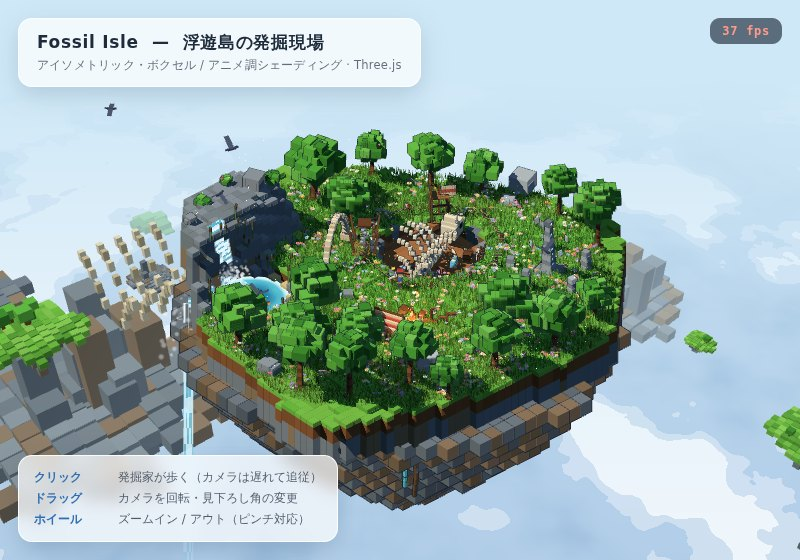
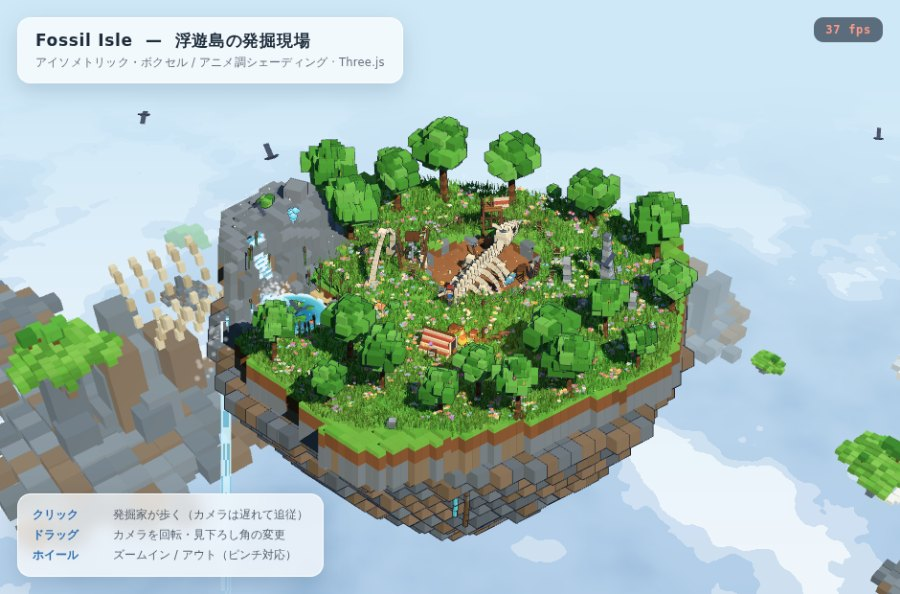
Rebuild the fossil from tapered rods and make the digger look younger
Ribs and long bones were axis-aligned box stacks: chunky, straight and
splayed wide apart, which read as a picket fence rather than a skeleton.

- Add a `rod` helper that rotates a box to lie along a->b inside the
  part's frame, so chaining segments with a shrinking width gives smooth
  streamlined bones. Spine, neural spines, ribs, limbs, tail, teeth,
  jaw and the landmark bone arch are all built from it now.
- Flip the anatomy: the spine rides along the top of the mound and the
  ribs bow outward then curve back inward as they sink into the clay,
  closing the cage under the belly instead of opening upward.
- Reshape the skull: braincase, brow ridge, tapering snout, recessed
  sockets, cheek arches, a hinged lower jaw and horns.
- Face: bigger anime eyes (sclera, iris, pupil, two highlights, lash
  line) built around their own centre so blinks squash in place, plus
  brows, a narrower jaw with a chin, hair tufts escaping the cap, a
  small grin and a touch of colour on the cheeks.
- Move the sun about 55 degrees off the camera azimuth so the digger's
  face is lit while facing the camera and cast shadows stay visible.

Claude-Session: https://claude.ai/code/session_0125P2mU8XHrXdhLTmH6Xdx1

diff --git a/src/world/props.js b/src/world/props.js
@@ -23,6 +23,40 @@ function at(b, x, y, z, yaw = 0, scale = 1, pitch = 0, roll = 0) {
   return b.setTransform(_m);
 }
 
+/** A standalone copy of a local frame, so nested parts can compose onto it. */
+function frame(x, y, z, yaw = 0, scale = 1) {
+  return new THREE.Matrix4().compose(
+    new THREE.Vector3(x, y, z),
+    new THREE.Quaternion().setFromEuler(new THREE.Euler(0, yaw, 0)),
+    new THREE.Vector3(scale, scale, scale),
+  );
+}
+
+const _rm = new THREE.Matrix4();
+const _rq = new THREE.Quaternion();
+const _rd = new THREE.Vector3();
+const _rc = new THREE.Vector3();
+const _r1 = new THREE.Vector3(1, 1, 1);
+const _UP = new THREE.Vector3(0, 1, 0);
+
+/**
+ * A bone segment: a box rotated to lie along a->b inside `base`.
+ * Chaining these with a shrinking width gives smooth tapered rods instead of
+ * a staircase of axis-aligned cubes.
+ */
+function rod(b, base, a, c, w, color, opts = {}, pad = 0.04) {
+  _rd.set(c[0] - a[0], c[1] - a[1], c[2] - a[2]);
+  const len = _rd.length();
+  if (len < 1e-5) return;
+  _rd.divideScalar(len);
+  _rq.setFromUnitVectors(_UP, _rd);
+  _rc.set((a[0] + c[0]) / 2, (a[1] + c[1]) / 2, (a[2] + c[2]) / 2);
+  _rm.compose(_rc, _rq, _r1);
+  _rm.premultiply(base);
+  b.setTransform(_rm);
+  b.box(0, 0, 0, w, len + pad, w, color, opts);
+}
+
 const COL = {
   bone: 0xf3ead2, boneDark: 0xded1b0, boneWarm: 0xfdf7e4,
   wood: 0x8a5a34, woodDark: 0x6d452a, plank: 0xa9743f,
@@ -265,75 +299,110 @@ function signpost(b, x, z, yaw) {
 
 /** The star of the dig: a huge half-buried fossil beast. */
 function fossilBeast(b, rnd, cx, cz, yaw) {
-  const y = CFG.pit.floor + 0.95;
-  at(b, cx, y, cz, yaw, 1.4);
-  const bone = (x, yy, z, w, h, d, tint = 1) =>
-    b.box(x, yy, z, w, h, d, rnd() < 0.25 ? COL.boneWarm : COL.bone,
-      { tint: tint * (0.95 + rnd() * 0.1) });
+  const base = frame(cx, CFG.pit.floor + 0.95, cz, yaw, 1.4);
+  const col = () => (rnd() < 0.22 ? COL.boneWarm : COL.bone);
+  const jit = (t = 1) => ({ tint: t * (0.95 + rnd() * 0.1) });
+  const blk = (x, y, z, w, h, d, c = col(), t = 1) => {
+    b.setTransform(base);
+    b.box(x, y, z, w, h, d, c, jit(t));
+  };
+  const seg = (a, c, w, t = 1, pad) => rod(b, base, a, c, w, col(), jit(t), pad);
 
-  // spine lying along the floor of the trench, humped in the middle
-  const N = 14;
+  // --- spine: a chain of vertebrae lying along the floor of the trench -----
+  const N = 15;
   const pts = [];
   for (let i = 0; i < N; i++) {
-    const t = i / (N - 1);
-    const x = lerp(-4.2, 2.4, t);
-    const yy = -0.2 + Math.sin(t * Math.PI) * 0.55;
-    pts.push([x, yy, Math.sin(t * 1.8) * 0.3]);
+    const u = i / (N - 1);
+    pts.push([
+      lerp(-4.2, 2.4, u),
+      1.05 + Math.sin(u * Math.PI) * 0.4,
+      Math.sin(u * 1.8) * 0.3,
+    ]);
   }
-  pts.forEach(([x, yy, z], i) => {
-    const t = i / (N - 1);
-    const s = lerp(0.62, 0.38, Math.abs(t - 0.35) * 1.3);
-    bone(x, yy, z, s * 0.95, s, s * 0.95);
-    bone(x, yy + s * 0.7, z, s * 0.34, s * 0.7, s * 0.34, 0.97);
-  });
+  for (let i = 0; i < N - 1; i++) {
+    const u = i / (N - 2);
+    const w = lerp(0.6, 0.36, Math.abs(u - 0.3) * 1.2);
+    seg(pts[i], pts[i + 1], w, 1, -0.08);          // negative pad -> visible joints
+    // neural spine, raked back the way real vertebrae are
+    const [x, y, z] = pts[i];
+    seg([x, y + w * 0.4, z], [x - 0.16, y + w * 0.45 + 0.62, z], w * 0.45, 0.97);
+  }
 
-  // rib cage curving up out of the ground - the silhouette that reads as
-  // "there is a monster buried here"
-  for (let i = 2; i < 12; i += 2) {
-    const [x, yy, z] = pts[i];
-    const t = (i - 2) / 9;
-    const arc = 2.0 + Math.sin(t * Math.PI) * 1.0;
-    const span = 0.6 + Math.sin(t * Math.PI) * 0.5;
+  // --- rib cage: the spine rides on top and the ribs bow out and down into
+  //     the dirt, closing back in under the belly the way a real cage does ---
+  for (let i = 1; i < 13; i += 2) {
+    const [x, y, z] = pts[i];
+    const t = (i - 1) / 12;
+    const bell = Math.sin(t * Math.PI * 0.92 + 0.18);
+    const span = 0.95 + bell * 0.75;               // how far the ribs bow out
+    const drop = 1.5 + bell * 0.75;                // how deep the cage goes
+    const thMax = 2.15;                            // >90deg so the tips curl in
     for (const s of [-1, 1]) {
-      const steps = 9;
-      for (let k = 0; k < steps; k++) {
-        const u = k / (steps - 1);
-        const a = u * 1.62;
-        bone(
-          x + Math.sin(u * 1.2) * 0.16,
-          yy + Math.sin(a) * arc,
-          z + s * (1 - Math.cos(a)) * span * 1.75,
-          0.26, 0.3, 0.26, 1 - u * 0.04,
-        );
+      const steps = 12;
+      let prev = [x, y - 0.06, z + s * 0.22];
+      for (let k = 1; k <= steps; k++) {
+        const u = k / steps;
+        const th = u * thMax;
+        const next = [
+          x + Math.sin(u * 1.15) * 0.3,
+          y - (1 - Math.cos(th)) * drop,
+          z + s * Math.sin(th) * span,
+        ];
+        seg(prev, next, lerp(0.34, 0.14, u), 1 - u * 0.05);
+        prev = next;
       }
     }
   }
 
-  // skull, reared up at the head of the spine
-  const sx = 3.6, sy = 0.75, sz = pts[N - 1][2];
-  bone(sx, sy + 0.2, sz, 1.5, 1.05, 1.2);
-  bone(sx + 1.05, sy + 0.05, sz, 1.0, 0.66, 0.86);        // snout
-  bone(sx + 1.62, sy, sz, 0.4, 0.5, 0.62);
-  b.box(sx + 0.3, sy + 0.5, sz + 0.52, 0.4, 0.4, 0.3, 0x2b2f3a);   // eye sockets
-  b.box(sx + 0.3, sy + 0.5, sz - 0.52, 0.4, 0.4, 0.3, 0x2b2f3a);
-  bone(sx + 0.05, sy + 0.85, sz, 1.15, 0.36, 1.3);        // crest
-  bone(sx - 0.25, sy + 1.2, sz, 0.4, 0.55, 0.95);
-  for (let i = 0; i < 5; i++) {                            // teeth
-    const tx = sx + 0.7 + i * 0.24;
-    bone(tx, sy - 0.28, sz + 0.32, 0.16, 0.3, 0.16);
-    bone(tx, sy - 0.28, sz - 0.32, 0.16, 0.3, 0.16);
-  }
-  bone(sx + 0.85, sy - 0.36, sz, 1.5, 0.32, 0.8);          // jaw
-
-  // limbs, half sunk in the clay
+  // --- skull, reared up at the head of the spine ---------------------------
+  const [hx, hy, hz] = pts[N - 1];
+  const sx = hx + 1.2, sy = hy + 0.5, sz = hz;
+  seg([hx, hy, hz], [sx - 0.55, sy - 0.1, sz], 0.44, 0.98);       // neck
+  blk(sx - 0.1, sy + 0.06, sz, 1.25, 0.62, 1.0);                  // braincase
+  blk(sx - 0.2, sy + 0.52, sz, 1.0, 0.36, 0.82);                  // skull roof
+  blk(sx + 0.52, sy + 0.2, sz, 0.85, 0.52, 0.86);                 // brow ridge
+  blk(sx + 1.08, sy + 0.02, sz, 0.78, 0.44, 0.64);                // snout
+  blk(sx + 1.6, sy - 0.06, sz, 0.48, 0.34, 0.48);
+  blk(sx + 1.94, sy - 0.1, sz, 0.28, 0.24, 0.34);                 // nostril tip
   for (const s of [-1, 1]) {
-    bone(0.9, -0.4, s * 1.7, 0.46, 1.0, 0.46);
-    bone(1.1, -0.95, s * 2.25, 1.0, 0.4, 0.4);
-    bone(-2.2, -0.35, s * 1.4, 0.42, 0.85, 0.42);
+    blk(sx + 0.5, sy + 0.24, sz + s * 0.44, 0.4, 0.4, 0.16, 0x24272f);   // eye socket
+    seg([sx + 0.05, sy + 0.02, sz + s * 0.5],
+        [sx + 0.95, sy - 0.12, sz + s * 0.36], 0.17, 0.98);              // cheek arch
+    seg([sx - 0.62, sy - 0.3, sz + s * 0.42],
+        [sx + 1.45, sy - 0.44, sz + s * 0.26], 0.22, 0.97);              // lower jaw
+    seg([sx + 1.45, sy - 0.44, sz + s * 0.26],
+        [sx + 1.85, sy - 0.34, sz], 0.18, 0.97);                         // jaw tip
+    seg([sx - 0.3, sy + 0.72, sz + s * 0.3],
+        [sx - 0.9, sy + 1.35, sz + s * 0.46], 0.24, 0.97);               // horns
   }
-  // tail vanishing into the pit wall
-  bone(-4.6, -0.55, 0.4, 0.7, 0.4, 0.4);
-  bone(-5.3, -0.7, 0.65, 0.55, 0.32, 0.32);
+  for (let i = 0; i < 6; i++) {                                   // teeth
+    const tx = sx + 0.35 + i * 0.28;
+    const tz = 0.46 - i * 0.035;
+    for (const s of [-1, 1]) {
+      seg([tx, sy - 0.16, sz + s * tz], [tx, sy - 0.42, sz + s * tz], 0.13 - i * 0.008, 1, 0);
+    }
+  }
+
+  // --- limbs, half sunk in the clay ---------------------------------------
+  for (const s of [-1, 1]) {
+    seg([0.9, 0.75, s * 1.25], [1.35, -0.55, s * 1.95], 0.4);    // humerus
+    blk(0.9, 0.8, s * 1.2, 0.5, 0.46, 0.5);                      // shoulder knob
+    seg([1.35, -0.55, s * 1.95], [2.05, -0.95, s * 2.3], 0.3);   // forearm
+    for (let f = -1; f <= 1; f++) {
+      seg([2.05, -0.95, s * 2.3], [2.55, -1.05, s * (2.3 + f * 0.35)], 0.16, 1, 0.02);
+    }
+    seg([-1.9, 0.7, s * 1.1], [-2.5, -0.6, s * 1.8], 0.36);      // hind limb
+    blk(-1.9, 0.75, s * 1.05, 0.46, 0.42, 0.46);
+  }
+
+  // --- tail vanishing into the pit wall ------------------------------------
+  let tp = pts[0];
+  for (let i = 1; i <= 5; i++) {
+    const u = i / 5;
+    const nt = [pts[0][0] - u * 2.6, pts[0][1] - u * 1.15, pts[0][2] + Math.sin(u * 2.2) * 0.6];
+    seg(tp, nt, lerp(0.36, 0.14, u), 1, -0.05);
+    tp = nt;
+  }
   b.setTransform(null);
 }
 
@@ -353,21 +422,23 @@ function ammonite(b, rnd, x, y, z, yaw, scale = 1) {
 }
 
 function boneArch(b, rnd, x, z, yaw) {
-  const y = groundAt(x, z);
-  at(b, x, y, z, yaw, 1);
+  const base = frame(x, groundAt(x, z), z, yaw, 1);
+  const col = () => (rnd() < 0.3 ? COL.boneDark : COL.bone);
   for (const s of [-1, 1]) {
-    const steps = 12;
-    for (let i = 0; i < steps; i++) {
-      const t = i / (steps - 1);
-      const a = t * Math.PI * 0.52;
-      const px = s * (Math.cos(a) * 3.4 - 0.2);
-      const py = Math.sin(a) * 4.6;
-      b.box(px, py, 0, 0.55 - t * 0.16, 0.62, 0.62, i % 4 === 0 ? COL.boneDark : COL.bone,
-        { tint: 0.94 + rnd() * 0.1 });
+    const steps = 14;
+    let prev = [s * 3.3, 0.1, 0];
+    for (let i = 1; i <= steps; i++) {
+      const u = i / steps;
+      const a = u * Math.PI * 0.52;
+      const next = [s * (Math.cos(a) * 3.4 - 0.2), Math.sin(a) * 4.6, Math.sin(u * 2.2) * 0.25];
+      rod(b, base, prev, next, lerp(0.62, 0.3, u), col(), { tint: 0.94 + rnd() * 0.1 });
+      prev = next;
     }
-    b.box(s * 3.3, 0.35, 0, 1.1, 0.7, 1.1, COL.boneDark);
+    b.setTransform(base);
+    b.box(s * 3.3, 0.35, 0, 1.15, 0.75, 1.15, COL.boneDark, { tint: 0.96 });
   }
-  b.box(0, 4.62, 0, 0.9, 0.5, 0.7, COL.boneWarm);
+  b.setTransform(base);
+  b.box(0, 4.6, 0, 0.85, 0.5, 0.7, COL.boneWarm);
   b.setTransform(null);
 }
 

diff --git a/src/character.js b/src/character.js
@@ -8,16 +8,17 @@ const SKIN = 0xf6c9a0, SKIN_D = 0xe0aa82;
 const COAT = 0x3f7fd4, COAT_D = 0x2f63aa, TRIM = 0xffd15c;
 const PANTS = 0x4d5673, BOOT = 0x7a4f2c, GLOVE = 0xd08347;
 const CAP = 0xe2564a, CAP_D = 0xb63f36;
-const HAIR = 0x53331f, SCARF = 0xf2e7cf;
+const HAIR = 0x63401f, HAIR_D = 0x4a2e15, SCARF = 0xf2e7cf;
+const BROW = 0x4a2e15, BLUSH = 0xef9d8a, IRIS = 0x3f6ea8, INK = 0x27303f;
 const PACK = 0x8a5a34, STEEL = 0xb9c6d4;
 
-function part(build) {
+function part(build, outline = 0.019) {
   const b = new VoxelBuilder();
   build(b);
   const m = new THREE.Mesh(b.build(), toonMaterial({ vertexColors: true }));
   m.castShadow = true;
   m.receiveShadow = false;
-  addOutline(m, 0.019);
+  if (outline > 0) addOutline(m, outline);
   return m;
 }
 
@@ -60,30 +61,60 @@ export function createCharacter(scene) {
   hips.add(neck);
 
   const head = part((b) => {
-    b.box(0, 0.3, 0, 0.58, 0.54, 0.54, SKIN);
-    b.box(0, 0.12, -0.28, 0.5, 0.3, 0.06, HAIR);        // nape
-    b.box(0, 0.5, 0, 0.6, 0.16, 0.56, HAIR);
-    b.box(0, 0.62, 0, 0.64, 0.14, 0.6, CAP);            // cap
-    b.box(0, 0.7, -0.02, 0.5, 0.08, 0.5, CAP_D);
-    b.box(0, 0.56, 0.3, 0.5, 0.08, 0.24, CAP_D);        // brim
-    b.box(0, 0.62, -0.3, 0.16, 0.1, 0.1, CAP_D);
-    b.box(0, 0.58, 0, 0.66, 0.14, 0.62, 0x3f4654);      // goggle strap, worn on the cap
-    b.box(0.17, 0.58, 0.31, 0.22, 0.2, 0.06, 0x8fe8ff); // lenses
-    b.box(-0.17, 0.58, 0.31, 0.22, 0.2, 0.06, 0x8fe8ff);
-    b.box(0.17, 0.58, 0.34, 0.26, 0.24, 0.02, 0x5f6b7c);
-    b.box(-0.17, 0.58, 0.34, 0.26, 0.24, 0.02, 0x5f6b7c);
-    b.box(0, 0.42, 0.28, 0.3, 0.1, 0.05, HAIR);         // fringe
-    b.box(0, 0.18, 0.29, 0.12, 0.08, 0.04, SKIN_D);     // nose
-    b.box(0.1, 0.1, 0.28, 0.16, 0.05, 0.03, 0xd4826a);  // mouth
+    // rounded cranium with a narrower jaw and a small chin: reads young
+    b.box(0, 0.36, 0, 0.6, 0.44, 0.56, SKIN);
+    b.box(0, 0.11, 0.01, 0.52, 0.16, 0.54, SKIN, { tint: 0.99 });
+    b.box(0, 0.02, 0.02, 0.36, 0.1, 0.44, SKIN, { tint: 0.98 });
+    b.box(0, 0.16, -0.28, 0.52, 0.36, 0.06, HAIR);       // nape
+
+    // hair: fringe chunks and side tufts escaping from under the cap
+    b.box(0, 0.53, 0, 0.62, 0.14, 0.58, HAIR);
+    b.box(-0.13, 0.45, 0.3, 0.22, 0.15, 0.05, HAIR);
+    b.box(0.11, 0.47, 0.3, 0.17, 0.11, 0.05, HAIR_D);
+    b.box(0.24, 0.46, 0.3, 0.1, 0.08, 0.05, HAIR);
+    b.box(0.29, 0.42, 0.2, 0.07, 0.16, 0.2, HAIR);       // sideburns
+    b.box(-0.29, 0.42, 0.2, 0.07, 0.16, 0.2, HAIR);
+    b.box(0.18, 0.5, -0.3, 0.14, 0.13, 0.09, HAIR_D);    // tufts at the back
+    b.box(-0.15, 0.47, -0.31, 0.12, 0.11, 0.08, HAIR);
+
+    // cap
+    b.box(0, 0.63, 0, 0.64, 0.14, 0.6, CAP);
+    b.box(0, 0.71, -0.02, 0.5, 0.08, 0.5, CAP_D);
+    b.box(0, 0.57, 0.31, 0.5, 0.08, 0.24, CAP_D);        // brim
+    b.box(0, 0.63, -0.31, 0.16, 0.1, 0.1, CAP_D);
+
+    // goggles pushed up onto the cap
+    b.box(0, 0.59, 0, 0.66, 0.14, 0.62, 0x3f4654);
+    b.box(0.17, 0.59, 0.32, 0.22, 0.2, 0.06, 0x8fe8ff);
+    b.box(-0.17, 0.59, 0.32, 0.22, 0.2, 0.06, 0x8fe8ff);
+    b.box(0.17, 0.59, 0.35, 0.26, 0.24, 0.02, 0x5f6b7c);
+    b.box(-0.17, 0.59, 0.35, 0.26, 0.24, 0.02, 0x5f6b7c);
+
+    // brows, nose, a small lopsided grin, and a bit of colour on the cheeks
+    b.box(0.15, 0.395, 0.283, 0.17, 0.05, 0.02, BROW);
+    b.box(-0.15, 0.405, 0.283, 0.17, 0.05, 0.02, BROW);
+    b.box(0, 0.2, 0.293, 0.09, 0.07, 0.035, SKIN_D);
+    b.box(0.01, 0.1, 0.278, 0.11, 0.04, 0.015, 0xb5645a);
+    b.box(0.08, 0.125, 0.278, 0.05, 0.035, 0.015, 0xb5645a);
+    b.box(-0.06, 0.12, 0.278, 0.04, 0.03, 0.015, 0xb5645a);
+    b.box(0.235, 0.19, 0.26, 0.1, 0.07, 0.06, BLUSH);
+    b.box(-0.235, 0.19, 0.26, 0.1, 0.07, 0.06, BLUSH);
   });
   neck.add(head);
 
+  // Big anime eyes, built around their own centre so the blink squashes in
+  // place. Thin outlines keep them from turning into black blobs.
   const eyes = part((b) => {
-    b.box(0.14, 0.28, 0.28, 0.11, 0.15, 0.03, 0x2b2f3a);
-    b.box(-0.14, 0.28, 0.28, 0.11, 0.15, 0.03, 0x2b2f3a);
-    b.box(0.17, 0.31, 0.3, 0.04, 0.06, 0.02, 0xffffff);
-    b.box(-0.11, 0.31, 0.3, 0.04, 0.06, 0.02, 0xffffff);
-  });
+    for (const s of [-1, 1]) {
+      b.box(s * 0.145, 0, 0.281, 0.2, 0.21, 0.02, 0xfdfdff);          // sclera
+      b.box(s * 0.145, -0.015, 0.284, 0.125, 0.16, 0.02, IRIS);       // iris
+      b.box(s * 0.145, -0.035, 0.287, 0.08, 0.09, 0.02, INK);         // pupil
+      b.box(s * 0.145 + 0.05, 0.055, 0.29, 0.05, 0.055, 0.02, 0xffffff);
+      b.box(s * 0.145 - 0.045, -0.06, 0.29, 0.03, 0.03, 0.02, 0xffffff);
+      b.box(s * 0.145, 0.107, 0.283, 0.21, 0.05, 0.02, INK);          // lash line
+    }
+  }, 0.009);
+  eyes.position.set(0, 0.27, 0);
   neck.add(eyes);
 
   // scarf: collar + three trailing segments that lag behind

diff --git a/src/main.js b/src/main.js
@@ -48,9 +48,10 @@ const rig = createCameraRig(canvas);
  *  Light                                                              *
  * ------------------------------------------------------------------ */
 
-// Deliberately off-axis from the default camera azimuth so cast shadows are
-// visible instead of hiding directly behind every object.
-const sunDir = new THREE.Vector3(-0.46, 0.74, -0.52).normalize();
+// Roughly 55 degrees off the default camera azimuth: far enough that cast
+// shadows are not hidden behind their casters, close enough that the digger's
+// face is lit while they are facing the camera.
+const sunDir = new THREE.Vector3(-0.12, 0.72, 0.68).normalize();
 const sun = new THREE.DirectionalLight(0xfff2d8, 3.3);
 sun.position.copy(sunDir).multiplyScalar(60);
 sun.castShadow = true;
